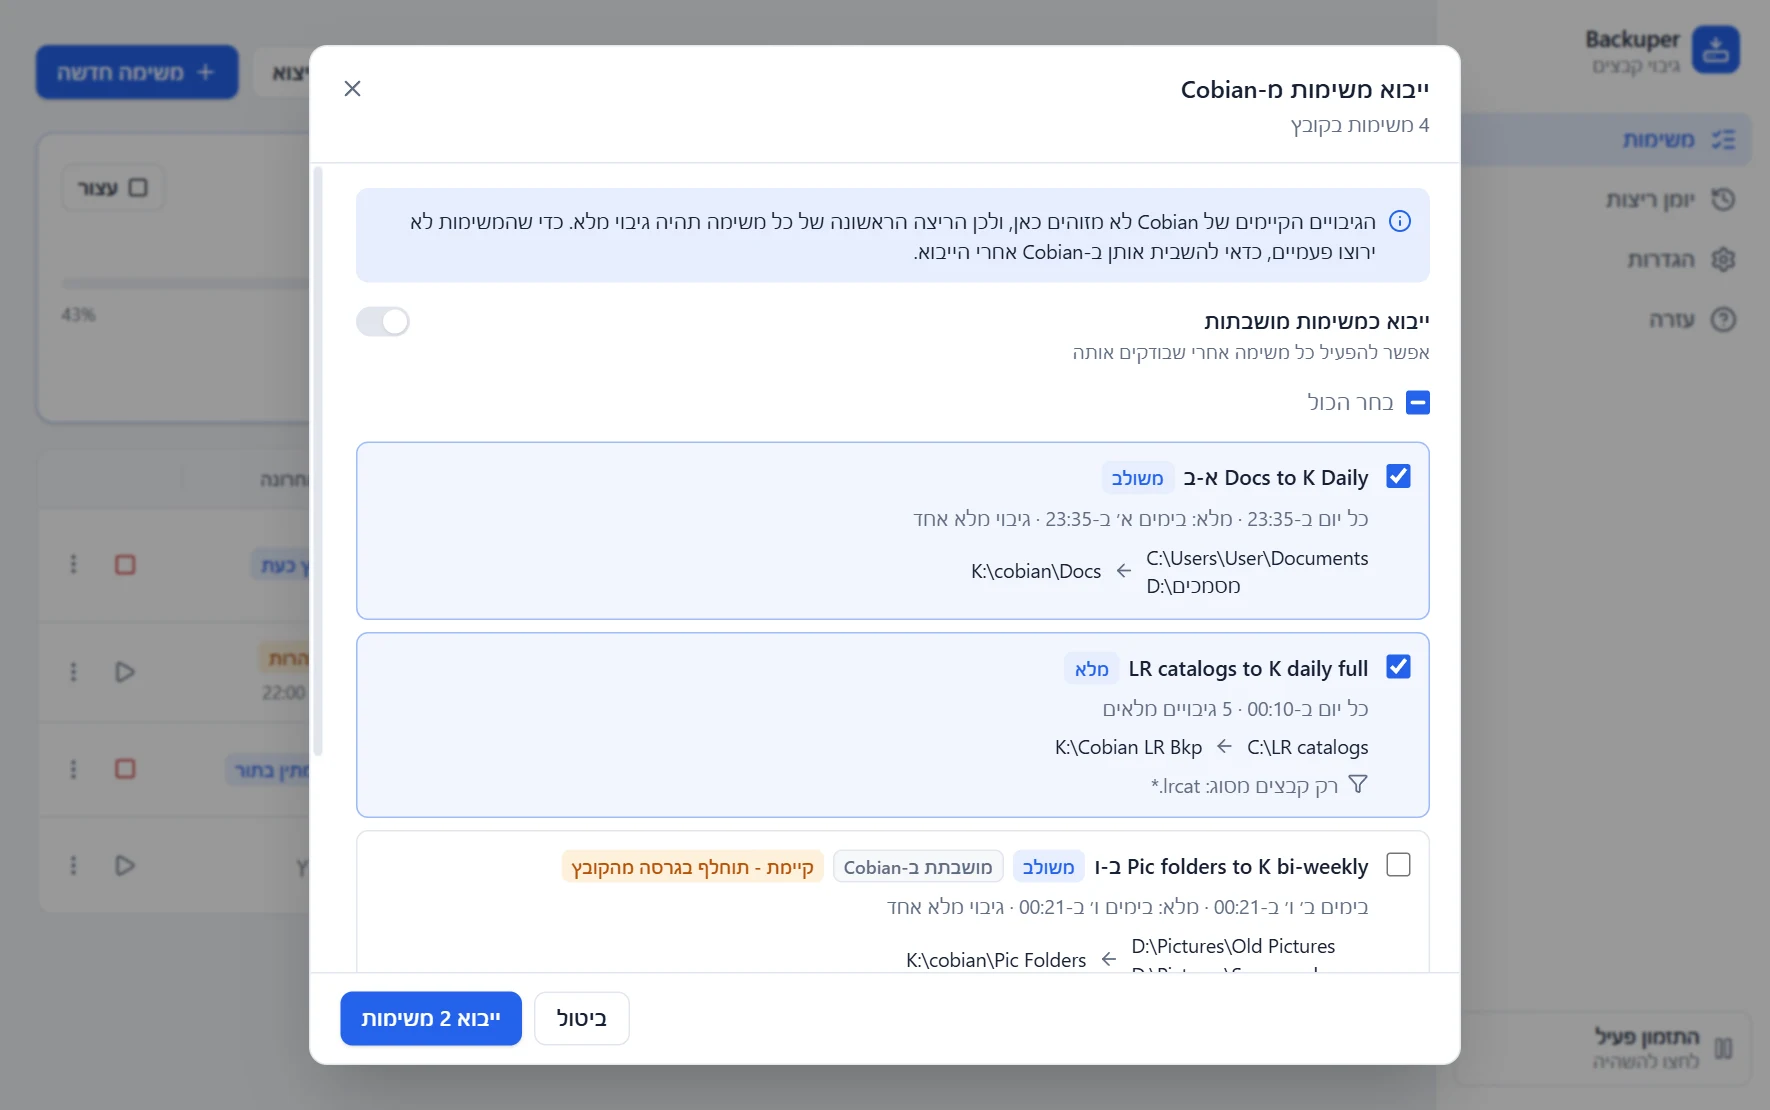
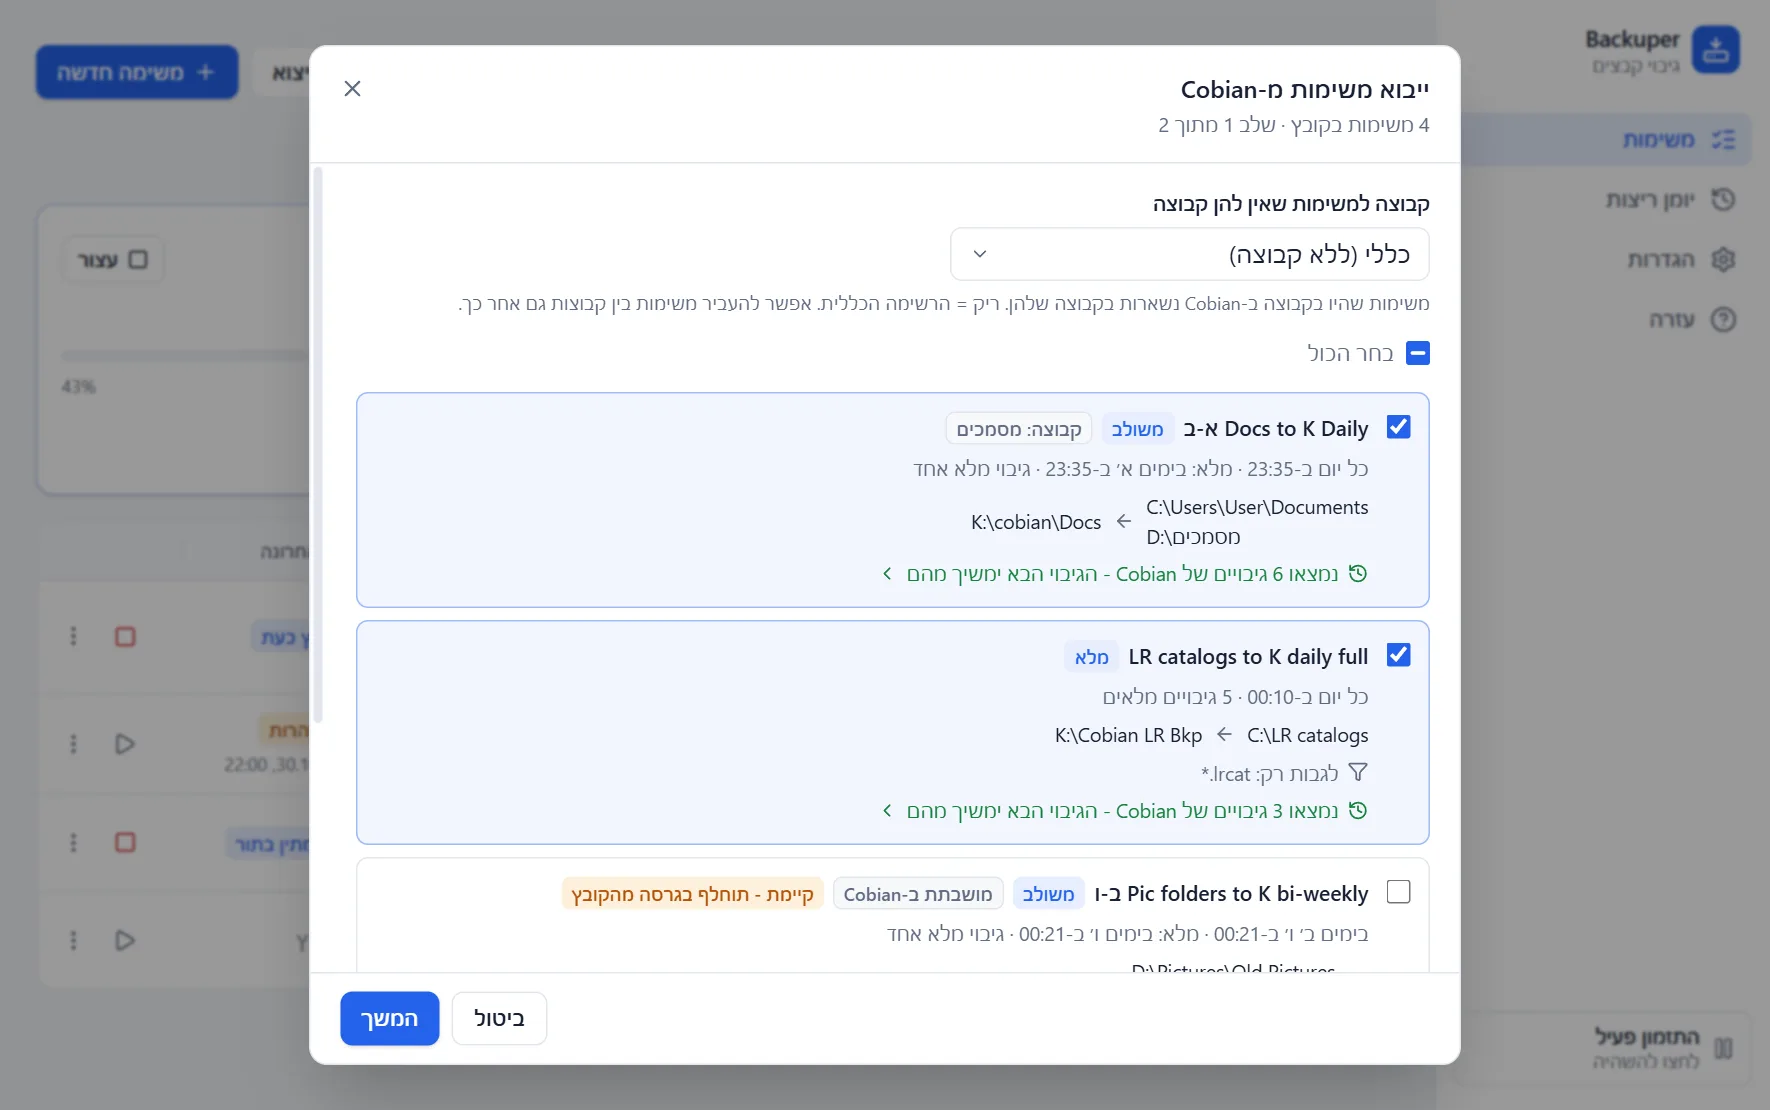
docs(site): announce task groups and the Cobian takeover (0.3.10)
- Feature cards: task groups, Cobian lists found automatically with their groups,
  continuing from Cobian's backups, and the task list's own backups.
- Screenshot tour: retaken tasks (light and dark) with the group tabs, new groups
  and "continue from Cobian's backups" shots, Cobian import shows the new first step.
- Trust claim updated: the destination is only cleaned of the tasks' own folders,
  which now includes Cobian's folders if the user chose to continue from them.
- FAQ: moving over from Cobian, and what groups do.

diff --git a/site/index.html b/site/index.html
@@ -51,6 +51,9 @@
       <symbol id="i-external" viewBox="0 0 24 24"><path d="M15 3h6v6"/><path d="M10 14 21 3"/><path d="M18 13v6a2 2 0 0 1-2 2H5a2 2 0 0 1-2-2V8a2 2 0 0 1 2-2h6"/></symbol>
       <symbol id="i-x" viewBox="0 0 24 24"><path d="M18 6 6 18"/><path d="m6 6 12 12"/></symbol>
       <symbol id="i-chevron" viewBox="0 0 24 24"><path d="m6 9 6 6 6-6"/></symbol>
+      <symbol id="i-groups" viewBox="0 0 24 24"><rect width="7" height="7" x="3" y="3" rx="1"/><rect width="7" height="7" x="3" y="14" rx="1"/><path d="M14 4h7"/><path d="M14 9h7"/><path d="M14 15h7"/><path d="M14 20h7"/></symbol>
+      <symbol id="i-history" viewBox="0 0 24 24"><path d="M3 12a9 9 0 1 0 9-9 9.75 9.75 0 0 0-6.74 2.74L3 8"/><path d="M3 3v5h5"/><path d="M12 7v5l4 2"/></symbol>
+      <symbol id="i-copy" viewBox="0 0 24 24"><rect width="14" height="14" x="8" y="8" rx="2" ry="2"/><path d="M4 16c-1.1 0-2-.9-2-2V4c0-1.1.9-2 2-2h10c1.1 0 2 .9 2 2"/></symbol>
       <symbol id="i-github" viewBox="0 0 24 24"><path d="M15 22v-4a4.8 4.8 0 0 0-1-3.5c3 0 6-2 6-5.5.08-1.25-.27-2.48-1-3.5.28-1.15.28-2.35 0-3.5 0 0-1 0-3 1.5-2.64-.5-5.36-.5-8 0C6 2 5 2 5 2c-.3 1.15-.3 2.35 0 3.5A5.403 5.403 0 0 0 4 9c0 3.5 3 5.5 6 5.5-.39.49-.68 1.05-.85 1.65-.17.6-.22 1.23-.15 1.85v4"/><path d="M9 18c-4.51 2-5-2-7-2"/></symbol>
     </defs>
   </svg>
@@ -105,7 +108,7 @@
             <picture>
               <source srcset="img/tasks-dark.webp" media="(prefers-color-scheme: dark)">
               <img src="img/tasks.webp" width="1770" height="1110"
-                   alt="מסך המשימות של Backuper: גיבוי שרץ עכשיו עם פס התקדמות, ומתחתיו ארבע משימות גיבוי עם התזמון, הריצה הבאה והתוצאה האחרונה">
+                   alt="מסך המשימות של Backuper: לשוניות קבוצות, גיבוי שרץ עכשיו עם פס התקדמות, ומתחתיו ארבע משימות גיבוי עם התזמון, הריצה הבאה והתוצאה האחרונה">
             </picture>
           </div>
         </div>
@@ -154,9 +157,24 @@
             <p>קובץ פתוח בתוכנה אחרת, אין הרשאה, הדיסק מלא - לכל בעיה הסבר מה קרה ומה עושים.</p>
           </article>
           <article class="feature">
+            <span class="feature-ic"><svg class="ic"><use href="#i-groups"/></svg></span>
+            <h3>משימות בקבוצות</h3>
+            <p>מחלקים את המשימות לרשימות - למשל מחשב הבית, עבודה או לפי כונן - עם לשונית לכל קבוצה. אפשר להריץ או לייצא קבוצה שלמה בלחיצה.</p>
+          </article>
+          <article class="feature">
             <span class="feature-ic"><svg class="ic"><use href="#i-import"/></svg></span>
             <h3>מעבר קל מ-Cobian</h3>
-            <p>מייבאים את רשימת המשימות של Cobian Backup או Reflector, עם תצוגה מקדימה לפני השמירה.</p>
+            <p>התוכנה מוצאת לבד את רשימות המשימות של Cobian Backup או Reflector, שומרת על הקבוצות שלהן, ומציגה הכול לפני השמירה.</p>
+          </article>
+          <article class="feature">
+            <span class="feature-ic"><svg class="ic"><use href="#i-history"/></svg></span>
+            <h3>ממשיכים מאיפה ש-Cobian הפסיק</h3>
+            <p>התיקיות ש-Cobian כבר יצר מקבלות את השמות של Backuper (שינוי שם בלבד), והגיבוי הבא מעתיק רק מה שהשתנה מאז. אפשר גם להחליט על זה אחר כך, כשמפעילים את המשימה.</p>
+          </article>
+          <article class="feature">
+            <span class="feature-ic"><svg class="ic"><use href="#i-copy"/></svg></span>
+            <h3>גם הרשימה עצמה מגובה</h3>
+            <p>כל שינוי ברשימת המשימות נשמר כעותק, אפשר לשמור עותקים גם בתיקייה נוספת, ואם הקובץ נפגם התוכנה טוענת לבד את העותק האחרון.</p>
           </article>
           <article class="feature">
             <span class="feature-ic"><svg class="ic"><use href="#i-bell"/></svg></span>
@@ -213,6 +231,13 @@
             <figcaption><strong>רואים מראש מתי זה ירוץ</strong>התוכנה מציגה את הריצות הבאות, כך שאין הפתעות.</figcaption>
           </figure>
           <figure class="shot">
+            <button type="button" class="shot-btn" data-full="img/groups.webp" aria-label="הגדלת התמונה: קבוצות משימות">
+              <img src="img/groups.webp" width="1770" height="1110" loading="lazy"
+                   alt="מסך המשימות עם הקבוצה 'מחשב הבית' נבחרת ותפריט הפעולות שלה פתוח: הרצת כל המשימות הפעילות בקבוצה, ייצוא, שינוי שם וביטול הקבוצה">
+            </button>
+            <figcaption><strong>משימות מסודרות בקבוצות</strong>לשונית לכל קבוצה, ופעולות על כולה: להריץ, לייצא או לשנות שם.</figcaption>
+          </figure>
+          <figure class="shot">
             <button type="button" class="shot-btn" data-full="img/backups.webp" aria-label="הגדלת התמונה: ניהול גיבויים">
               <img src="img/backups.webp" width="1770" height="1110" loading="lazy"
                    alt="ניהול הגיבויים של משימה: רשימת תיקיות הגיבוי לפי תאריך, עם הסוג, הגודל וכפתורים לפתיחה ולמחיקה">
@@ -236,9 +261,16 @@
           <figure class="shot">
             <button type="button" class="shot-btn" data-full="img/cobian-import.webp" aria-label="הגדלת התמונה: ייבוא מ-Cobian">
               <img src="img/cobian-import.webp" width="1770" height="1110" loading="lazy"
-                   alt="ייבוא משימות מ-Cobian: רשימת המשימות מהקובץ עם תזמון, מקור ויעד, ותיבות סימון לבחירה">
+                   alt="ייבוא משימות מ-Cobian, שלב ראשון: המשימות מהקובץ עם תזמון, מקור ויעד, תיבות סימון לבחירה, וכמה גיבויים של Cobian נמצאו ליד כל משימה">
             </button>
-            <figcaption><strong>מגיעים מ-Cobian?</strong>המשימות עוברות כמו שהן, ורואים הכול לפני השמירה.</figcaption>
+            <figcaption><strong>מגיעים מ-Cobian?</strong>המשימות עוברות כמו שהן, כולל הקבוצות, ורואים הכול לפני השמירה.</figcaption>
+          </figure>
+          <figure class="shot">
+            <button type="button" class="shot-btn" data-full="img/cobian-continue.webp" aria-label="הגדלת התמונה: המשך מגיבויי Cobian">
+              <img src="img/cobian-continue.webp" width="1770" height="1110" loading="lazy"
+                   alt="ייבוא מ-Cobian, שלב שני: שלוש אפשרויות - להמשיך מהגיבויים הקיימים של Cobian, לא להמשיך, או רק לייבא ולהחליט כשמפעילים את המשימה">
+            </button>
+            <figcaption><strong>ממשיכים מאיפה ש-Cobian הפסיק</strong>בוחרים אם להמשיך מהגיבויים הקיימים, ואם להפעיל את המשימות כבר עכשיו.</figcaption>
           </figure>
           <figure class="shot">
             <button type="button" class="shot-btn" data-full="img/help.webp" aria-label="הגדלת התמונה: עזרה">
@@ -339,7 +371,7 @@
           </div>
           <div class="trust-item">
             <span class="trust-ic"><svg class="ic"><use href="#i-target"/></svg></span>
-            <div><strong>נוגעת רק במה שבחרתם</strong><p>קוראת רק מהתיקיות שבחרתם, וביעד מוחקת אך ורק תיקיות גיבוי שהיא עצמה יצרה.</p></div>
+            <div><strong>נוגעת רק במה שבחרתם</strong><p>קוראת רק מהתיקיות שבחרתם, וביעד מוחקת אך ורק תיקיות גיבוי של המשימות עצמן: אלה שהיא יצרה, ותיקיות של Cobian רק אם בחרתם להמשיך מהן.</p></div>
           </div>
           <div class="trust-item">
             <span class="trust-ic"><svg class="ic"><use href="#i-search"/></svg></span>
@@ -386,6 +418,14 @@
         <details class="disclosure">
           <summary><svg class="ic chev"><use href="#i-chevron"/></svg>איך משחזרים קבצים?</summary>
           <div class="disclosure-body"><p>פותחים את תיקיית הגיבוי בסייר הקבצים ומעתיקים בחזרה. כדי לשחזר הכול למצב האחרון, מתחילים מהגיבוי המלא ומעתיקים מעליו את הגיבויים האינקרמנטליים שאחריו, לפי הסדר. עמוד העזרה בתוכנה מסביר את זה בפירוט.</p></div>
+        </details>
+        <details class="disclosure">
+          <summary><svg class="ic chev"><use href="#i-chevron"/></svg>אני עובר מ-Cobian. מה קורה עם הגיבויים שכבר יש לי?</summary>
+          <div class="disclosure-body"><p>בייבוא התוכנה מחפשת ביעד של כל משימה את התיקיות ש-Cobian יצר. אם בוחרים להמשיך מהן, הן מקבלות את השמות של Backuper (שינוי שם בלבד - לא מועתק ולא נמחק דבר), והגיבוי האינקרמנטלי הבא מעתיק רק מה שהשתנה מאז הגיבוי האחרון של Cobian. אפשר גם לייבא בלי להחליט, ולענות על השאלה רק כשמפעילים את המשימה. כדאי להשבית את המשימות ב-Cobian, כדי שלא ירוצו בשתי התוכנות. אי אפשר להמשיך מגיבויים דחוסים של Cobian (zip או 7z), ובמקרה כזה הגיבוי הראשון יהיה מלא.</p></div>
+        </details>
+        <details class="disclosure">
+          <summary><svg class="ic chev"><use href="#i-chevron"/></svg>מה אפשר לעשות עם קבוצות?</summary>
+          <div class="disclosure-body"><p>קבוצה היא דרך לחלק את רשימת המשימות - למשל מחשב הבית, עבודה או לפי כונן. מעל הטבלה יש לשונית לכל קבוצה, ואפשר להעביר משימות בין קבוצות, להריץ את כל המשימות הפעילות בקבוצה, לייצא אותה לקובץ או לשנות את שמה. הקבוצה היא רק סידור של הרשימה: היא לא משנה את התזמון, את הגיבויים או את שמות התיקיות ביעד. ביטול קבוצה מעביר את המשימות שבה לרשימה הכללית ולא מוחק אותן.</p></div>
         </details>
         <details class="disclosure">
           <summary><svg class="ic chev"><use href="#i-chevron"/></svg>איך מעדכנים לגרסה חדשה?</summary>
